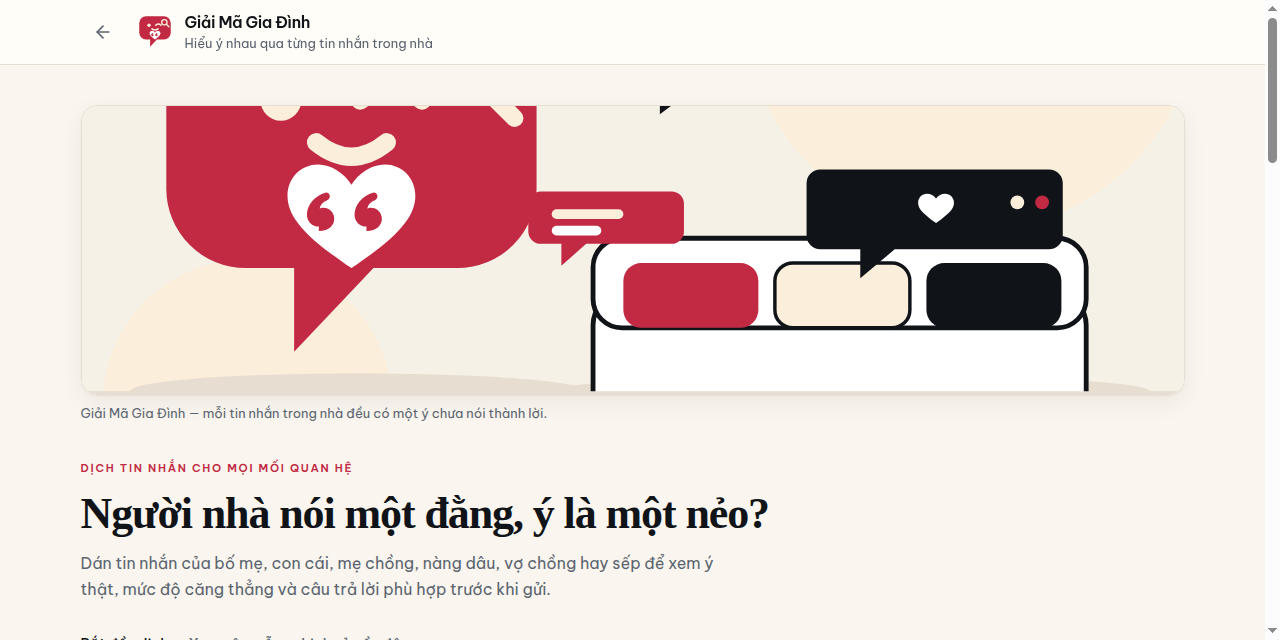
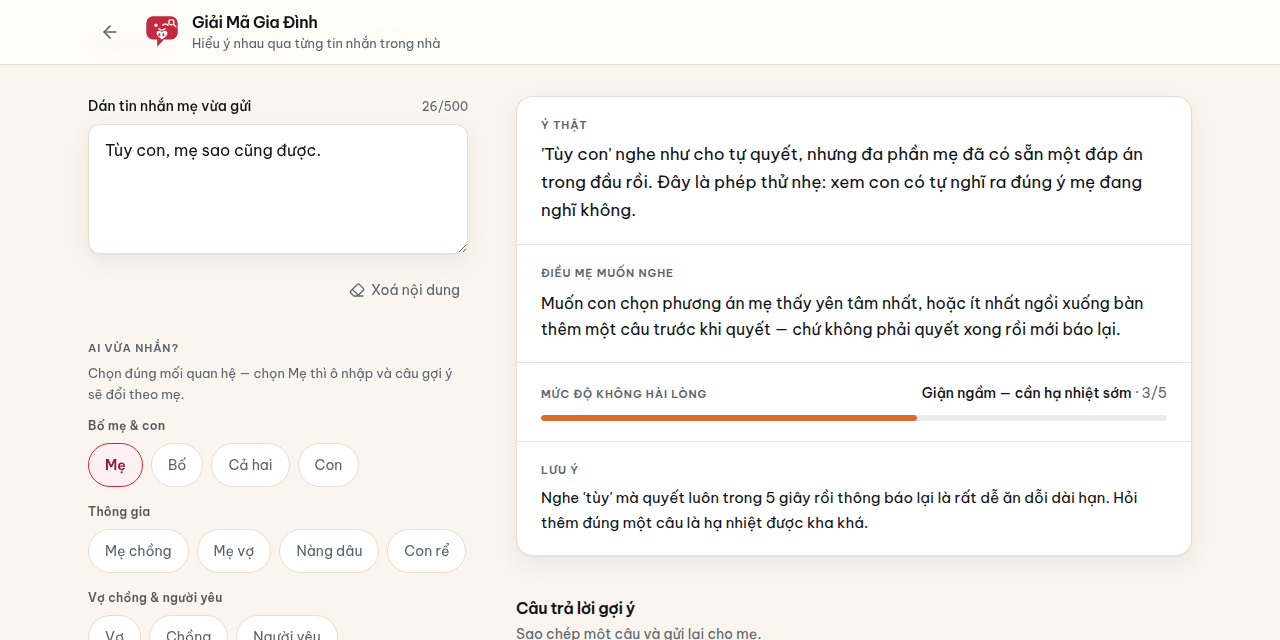
docs: real decoded-state screenshots + captioned gallery, professional README presentation
- Main desktop/mobile/social shots now show the app AFTER decoding the classic
  'Tuy con, me sao cung duoc.' message: real meaning, tension meter 3/5, warning
  and suggested replies (previously the empty initial state)
- New gallery: step 1 paste + pick speaker, step 2 decode card close-up,
  step 3 three suggested replies, plus a mother-in-law / living-together example
- README hero caption + Screenshots section rewritten in Vietnamese with
  captions explaining the value of each shot

diff --git a/README.md b/README.md
@@ -15,9 +15,9 @@
 Repository: https://github.com/changvn2002/dichbome
 
 <p align="center">
-  <img src="docs/screenshots/dichbome-desktop.png" alt="Giải Mã Gia Đình — main screen" width="900">
+  <img src="docs/screenshots/dichbome-desktop.png" alt="Giải Mã Gia Đình — màn hình đã dịch xong câu “Tùy con, mẹ sao cũng được.”" width="900">
 </p>
-<p align="center"><em>Paste a family message → get the real meaning, tension level and safe replies.</em></p>
+<p align="center"><em>Mẹ nhắn “Tùy con, mẹ sao cũng được.” — app dịch ra ý thật, điều mẹ muốn nghe, mức độ không hài lòng 3/5 và gợi ý sẵn câu trả lời. Ảnh chụp thật từ bản production, không phải mockup.</em></p>
 
 **Tóm tắt (Tiếng Việt):** Dán một câu bố mẹ, con cái, mẹ chồng, nàng dâu, vợ chồng hay sếp
 vừa nhắn — app cho bạn biết câu đó *thật ra nghĩa là gì*, người nhắn *đang muốn gì*, mức độ
@@ -43,13 +43,51 @@ liệu đi đâu.
 
 ## 🖼 Screenshots
 
-Real screenshots of the production deployment at https://dichbome.vercel.app:
+Tất cả ảnh dưới đây được chụp trực tiếp từ bản production
+[https://dichbome.vercel.app](https://dichbome.vercel.app) khi app đang ở trạng thái
+**đã dịch xong một tin nhắn thật** — đúng những gì người dùng nhìn thấy sau khi bấm
+“Dịch ý”, không phải màn hình trống lúc mới mở app hay ảnh mockup.
 
-| Desktop (1440×900)                                                                 | Mobile (390×844)                                                                |
-| ---------------------------------------------------------------------------------- | ------------------------------------------------------------------------------- |
-| ![Desktop](docs/screenshots/dichbome-desktop.png)                                  | ![Mobile](docs/screenshots/dichbome-mobile.png)                                 |
-| Social / link-preview size (1280×640)                                              |                                                                                 |
-| ![Social preview](docs/screenshots/dichbome-social.png)                            |                                                                                 |
+### Kết quả dịch — giá trị cốt lõi của app
+
+![Desktop 1440×900 — kết quả dịch câu “Tùy con, mẹ sao cũng được.”](docs/screenshots/dichbome-desktop.png)
+
+_Trên desktop: bên trái là câu mẹ vừa nhắn và các nhóm quan hệ để chọn người gửi; bên
+phải là kết quả dịch đầy đủ — **Ý thật** (“mẹ đã có sẵn một đáp án trong đầu”), **Điều
+mẹ muốn nghe**, **Mức độ không hài lòng 3/5** (“Giận ngầm — cần hạ nhiệt sớm”) kèm
+**Lưu ý** thực tế, và ngay bên dưới là các câu trả lời gợi ý._
+
+| Mobile (390×844)                                                                 | Social / link-preview (1280×640)                                              |
+| ------------------------------------------------------------------------------- | ----------------------------------------------------------------------------- |
+| ![Mobile — thẻ kết quả dịch trên điện thoại](docs/screenshots/dichbome-mobile.png) | ![Social — bản xem trước khi chia sẻ liên kết](docs/screenshots/dichbome-social.png) |
+| _Trên điện thoại, thẻ kết quả xếp dọc ngay dưới ô nhập: ý thật, điều mẹ muốn nghe và thang đo mức độ đọc rõ trong một màn hình._ | _Khung 1280×640 dùng cho ảnh xem trước khi gửi link app qua Zalo/Facebook — vẫn thấy trọn thẻ kết quả dịch._ |
+
+### Theo từng bước sử dụng
+
+**Bước 1 — Dán tin nhắn và chọn đúng người nhắn.** App có sẵn 16 vai trong 5 nhóm
+quan hệ (Bố mẹ & con, Thông gia, Vợ chồng & người yêu, Anh em & bạn, Công việc) và thư
+viện câu mẫu để thử ngay.
+
+![Bước 1 — dán tin nhắn, chọn vai và hoàn cảnh](docs/screenshots/gallery-01-dan-tin-chon-vai.png)
+
+**Bước 2 — Đọc ý thật và mức độ căng thẳng.** Mỗi kết quả gồm ý thật phía sau câu nói,
+điều người nhắn thật sự muốn nghe, thang đo mức độ không hài lòng 0–5 có nhãn cảnh báo,
+và lưu ý tình huống nếu câu nói tiềm ẩn rủi ro.
+
+![Bước 2 — thẻ kết quả: ý thật, điều muốn nghe, mức độ và lưu ý](docs/screenshots/gallery-02-y-that-va-muc-do.png)
+
+**Bước 3 — Sao chép một câu trả lời êm chuyện.** Ba gợi ý theo ba tông — *Ngoan nhất*,
+*Khéo nhất*, *An toàn nhất* — viết đúng cách xưng hô của mối quan hệ đã chọn, bấm một
+chạm để sao chép rồi gửi lại ngay.
+
+![Bước 3 — ba câu trả lời gợi ý sẵn để sao chép](docs/screenshots/gallery-03-cau-tra-loi-goi-y.png)
+
+**Không chỉ dịch bố mẹ — cả mẹ chồng, nàng dâu, vợ chồng và sếp.** Cùng một thao tác,
+đổi người nhắn là ý nghĩa và câu gợi ý đổi theo đúng nếp của mối quan hệ đó. Ví dụ dưới
+đây: mẹ chồng nhắn “Để đấy mẹ làm cho, con cứ nghỉ đi.” trong hoàn cảnh ở chung — app
+nhận ra đây là quan tâm là chính (mức độ 1/5) nhưng ngồi nghỉ luôn thì mất điểm khéo.
+
+![Ví dụ khác — dịch câu của mẹ chồng trong hoàn cảnh ở chung](docs/screenshots/gallery-04-me-chong-o-chung.png)
 
 ## 🧭 How it works
 
